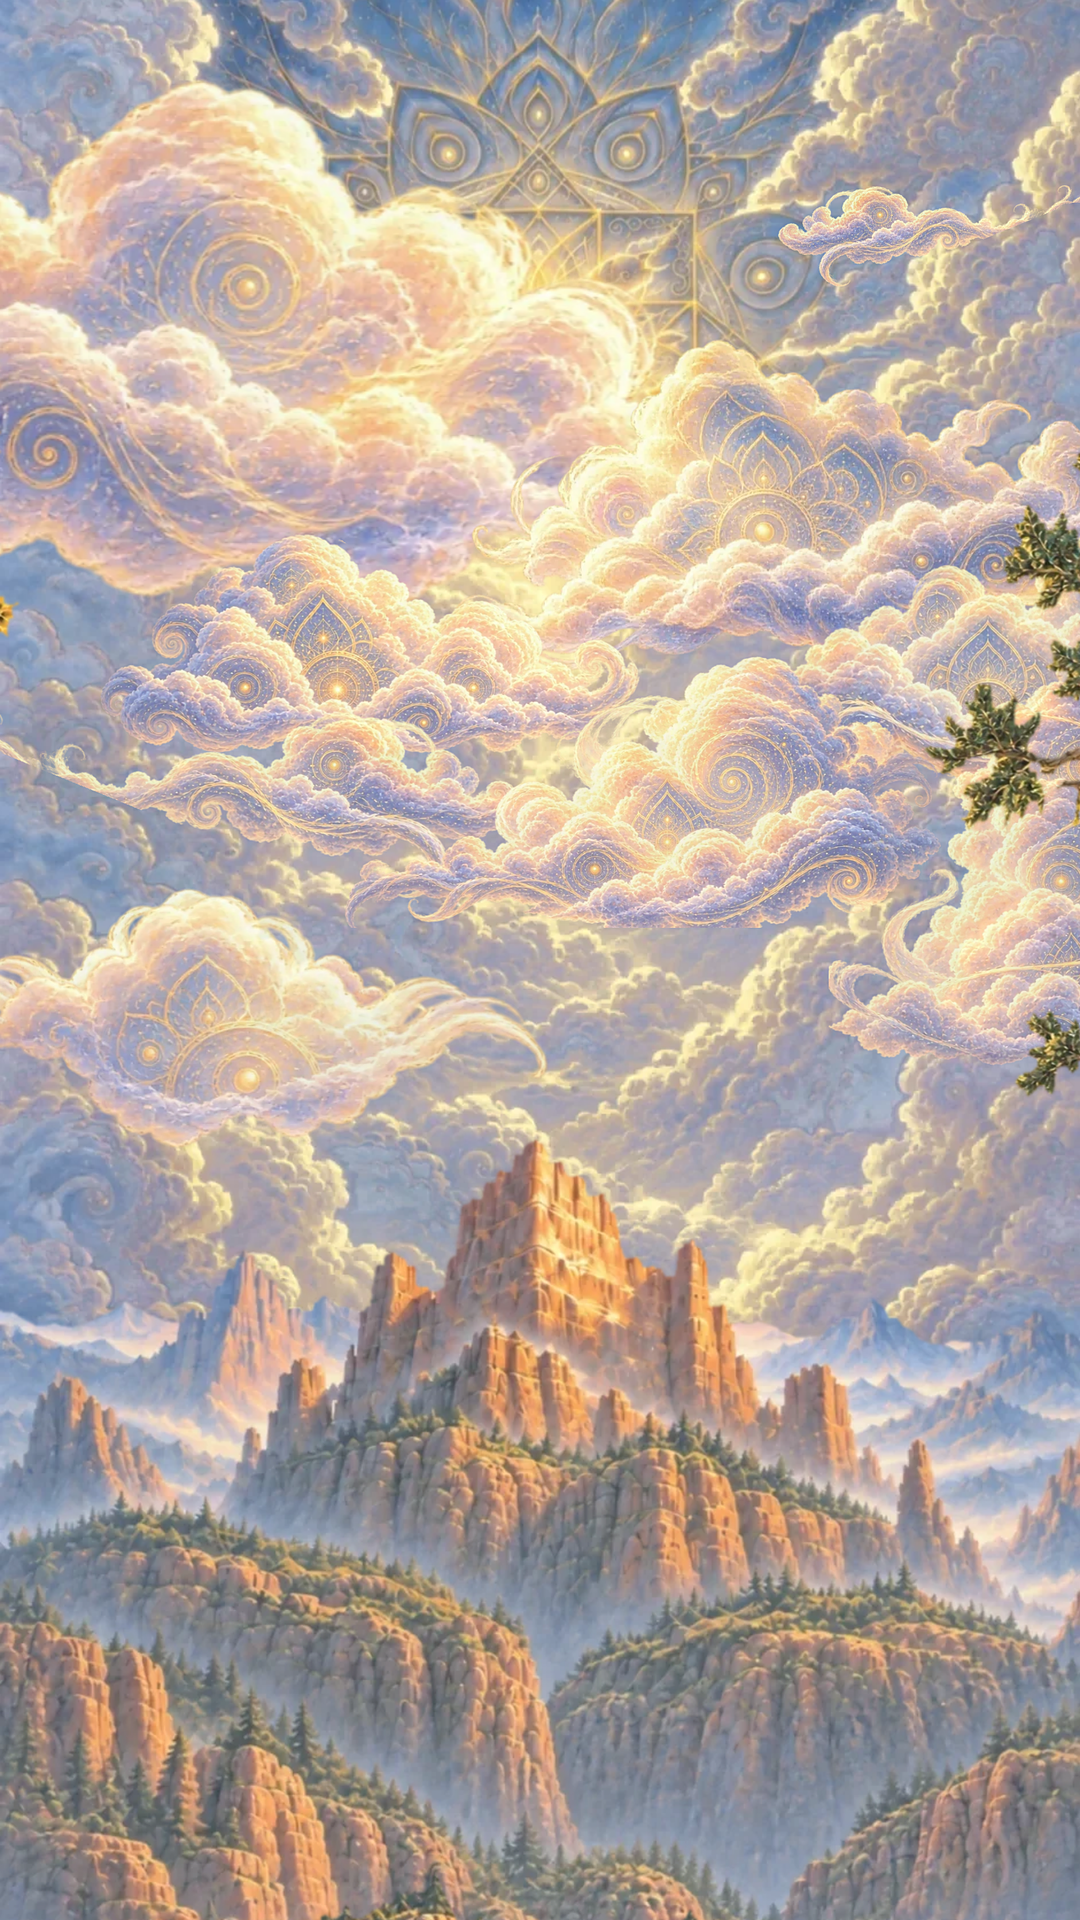
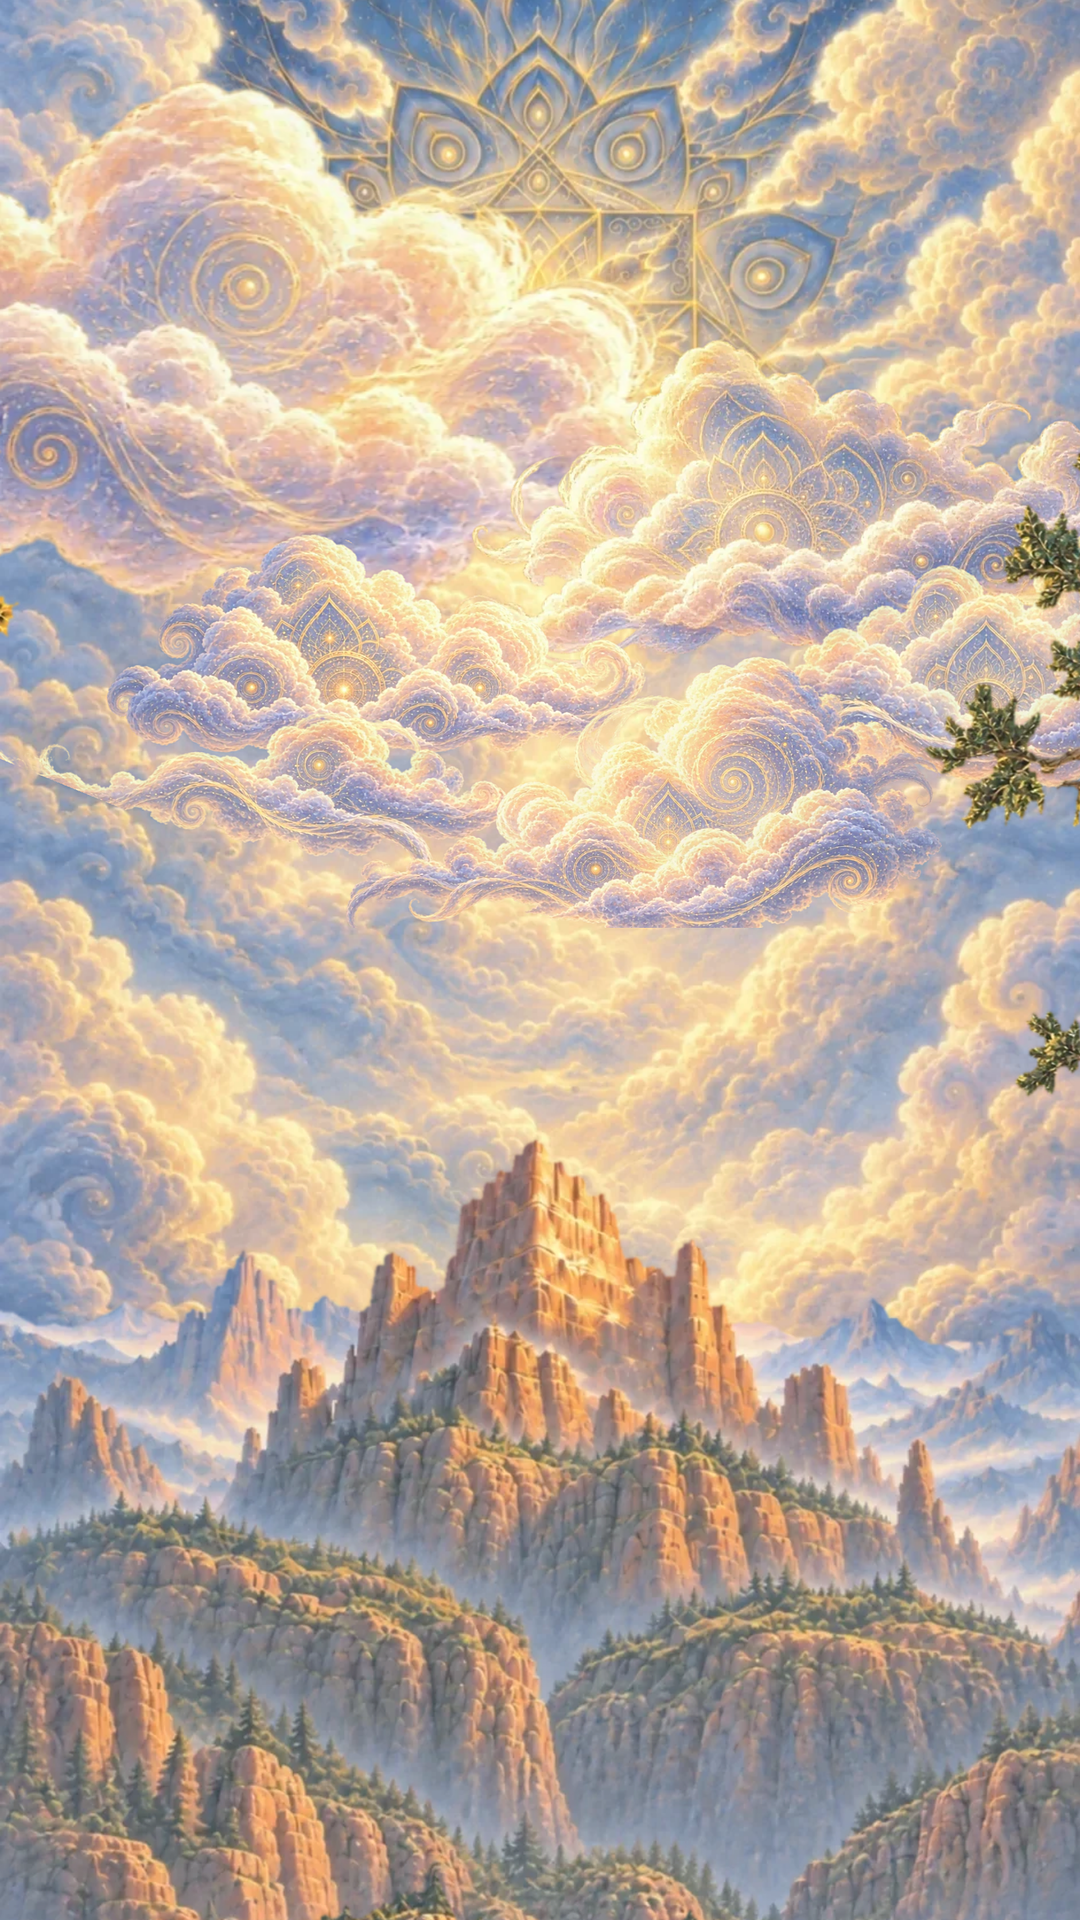
World v3: sky fade undone; 4 of 10 moving clouds removed (sun still covered)
Claude-Session: https://claude.ai/code/session_01X5u2D9a4RRbbCvwnE6RQKF

diff --git a/prototype/world-v3-preview/trev-world-scroll.html b/prototype/world-v3-preview/trev-world-scroll.html
@@ -59,14 +59,10 @@ const LAYERS = [
 const CLOUDS = [ // ~60% of the sky above the rock covered, castle clear
   { src: "burnell-world-cloud-medium.webp", after: "sky", depth: 0.25, w: 1061, x0: 200, y0: 300, dir: -1, op: 0.97, spd: 0.32 },
   { src: "burnell-world-cloud-large.webp", after: "sky", depth: 0.5, w: 660, x0: 720, y0: 440, dir: 1, op: 0.97, flip: true, spd: 0.15 },
-  { src: "trev-cloud-c.webp", ar: 0.295, after: "mountains", depth: 0.35, w: 300, x0: 830, y0: 205, dir: 1, op: 0.93, flip: true, spd: 0.65 },
   { src: "trev-cloud-d.webp", ar: 0.413, after: "mountains", depth: 0.35, w: 470, x0: 330, y0: 560, dir: -1, op: 0.97, spd: 0.54 },
   { src: "trev-cloud-b.webp", ar: 0.5, after: "mountains", depth: 0.35, w: 520, x0: 860, y0: 585, dir: 1, op: 0.9, spd: 0.37 },
-  { src: "burnell-world-cloud-small.webp", after: "mountains", depth: 0.35, w: 416, x0: 134, y0: 864, dir: -1, op: 0.91, flip: true, spd: 0.06 },
   { src: "trev-cloud-c.webp", ar: 0.295, after: "falls", depth: 0.65, w: 560, x0: 170, y0: 700, dir: 1, op: 0.9, spd: 0.04 },
-  { src: "trev-cloud-e.webp", ar: 1.018, after: "falls", depth: 0.65, w: 330, x0: 880, y0: 760, dir: 1, op: 0.9, spd: 0.07 },
   { src: "trev-cloud-a.webp", ar: 0.457, after: "foreground", depth: 1.0, w: 520, x0: 560, y0: 690, dir: 1, op: 0.95, flip: true, spd: 0.83 },
-  { src: "burnell-world-cloud-small.webp", after: "foreground", depth: 1.0, w: 509, x0: 230, y0: 890, dir: -1, op: 0.86, spd: 0.22 },
 ];
 const world = document.getElementById("world");
 const sunsetEl = document.createElement("canvas"); sunsetEl.id = "sunset"; sunsetEl.width = 941; sunsetEl.height = 1672;
